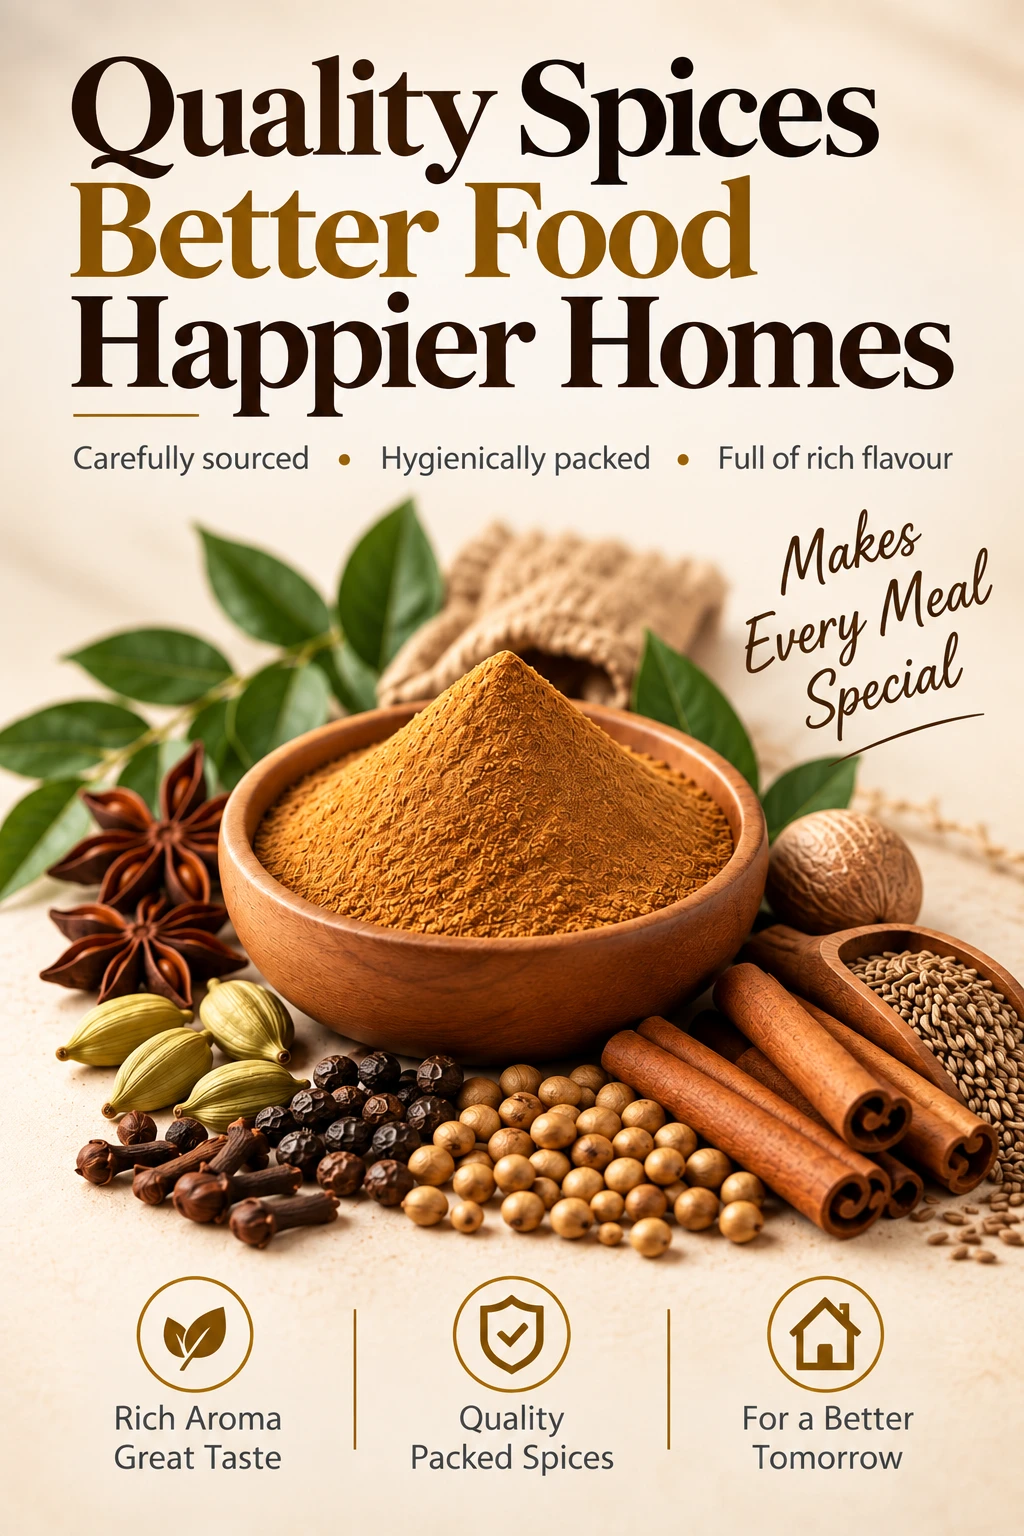
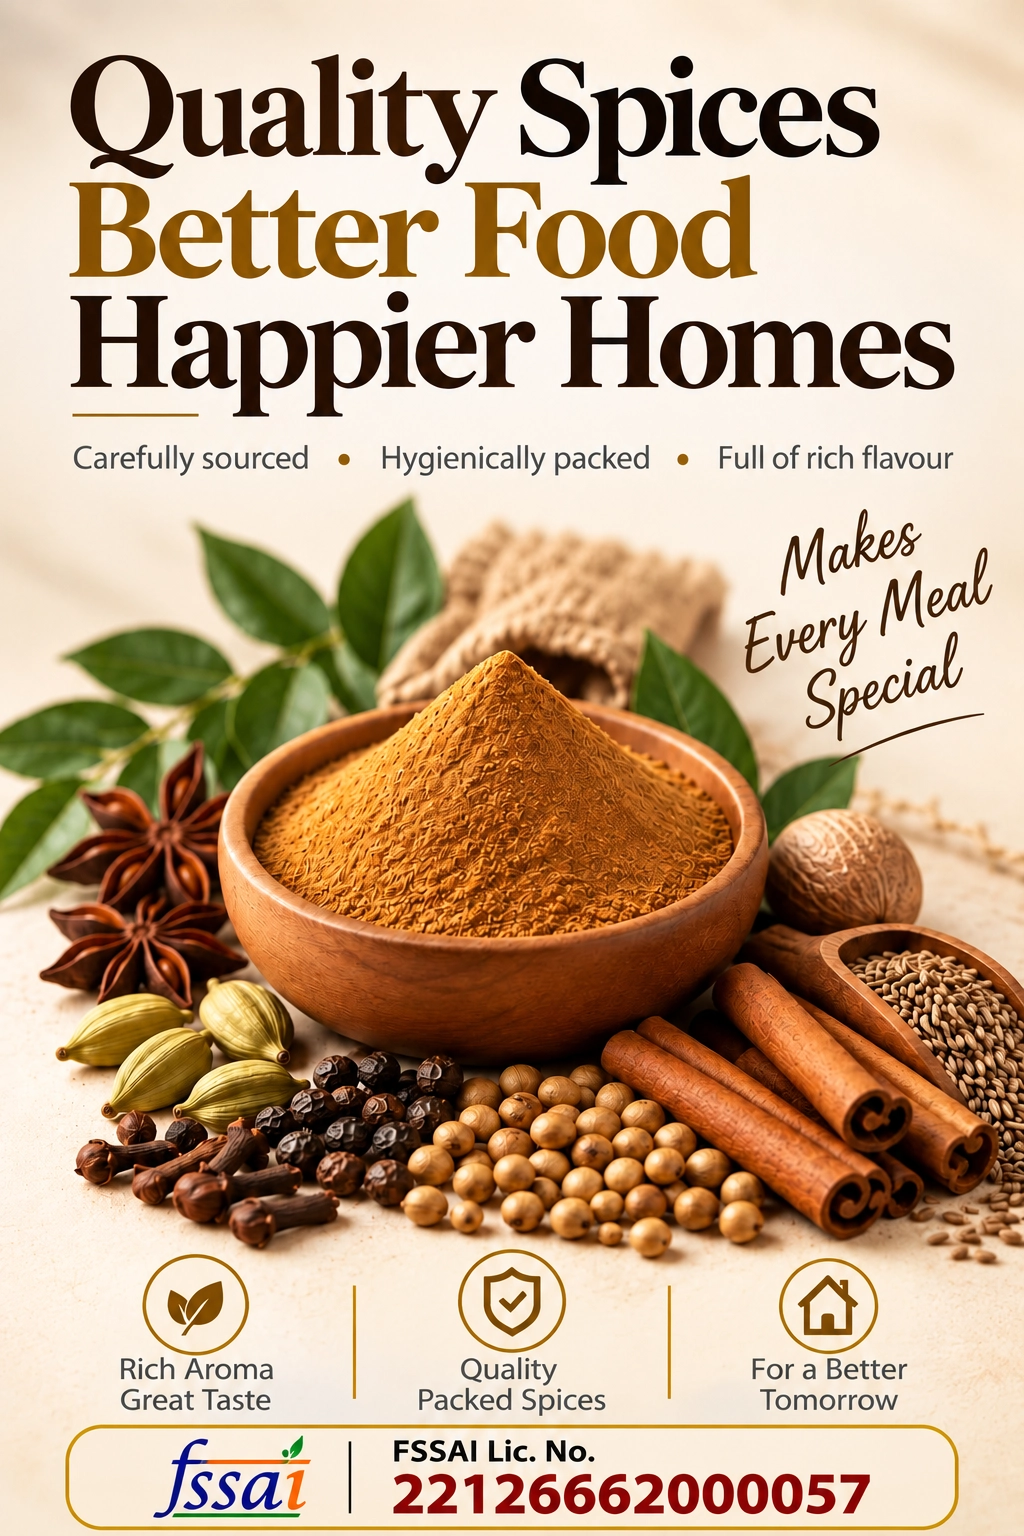
changes

diff --git a/index.html b/index.html
@@ -64,9 +64,9 @@
 
     <!-- Hero Banner -->
     <section class="hero">
-      <img src="images/banner.webp?v=2" alt="Argeet spices" class="img-fluid w-100 d-none d-md-block" />
+      <img src="images/banner.webp?v=3" alt="Argeet spices" class="img-fluid w-100 d-none d-md-block" />
 
-      <img src="images/banner-m.webp?v=2" alt="Argeet spices" class="img-fluid w-100 d-block d-md-none" />
+      <img src="images/banner-m.webp?v=3" alt="Argeet spices" class="img-fluid w-100 d-block d-md-none" />
     </section>
 
     <!-- Products -->
